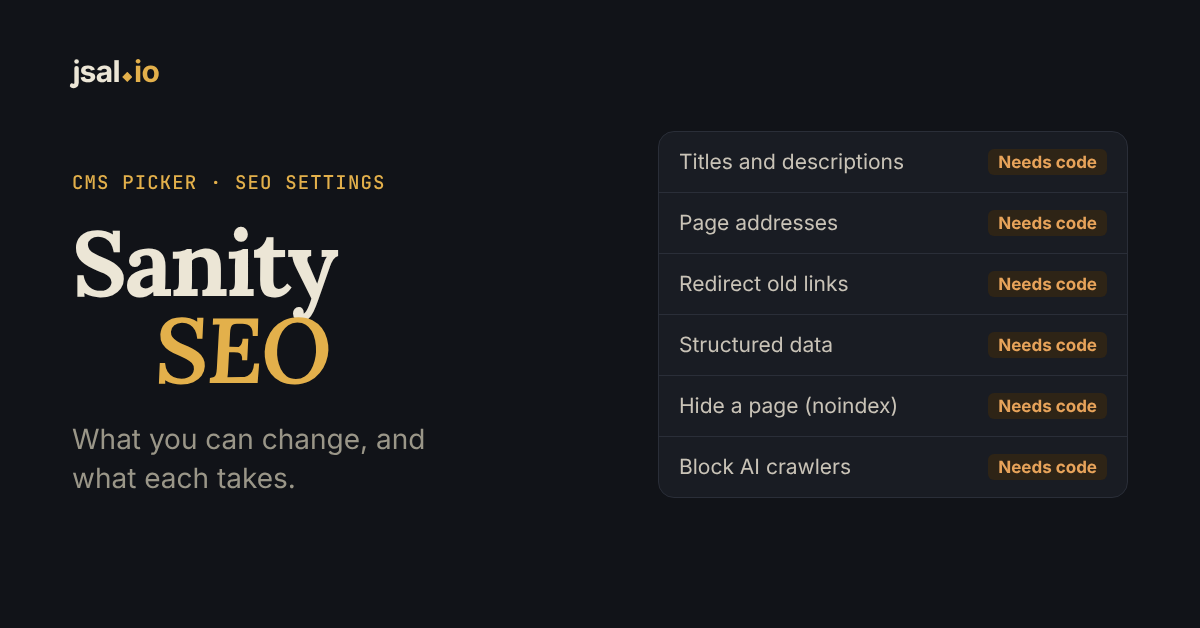
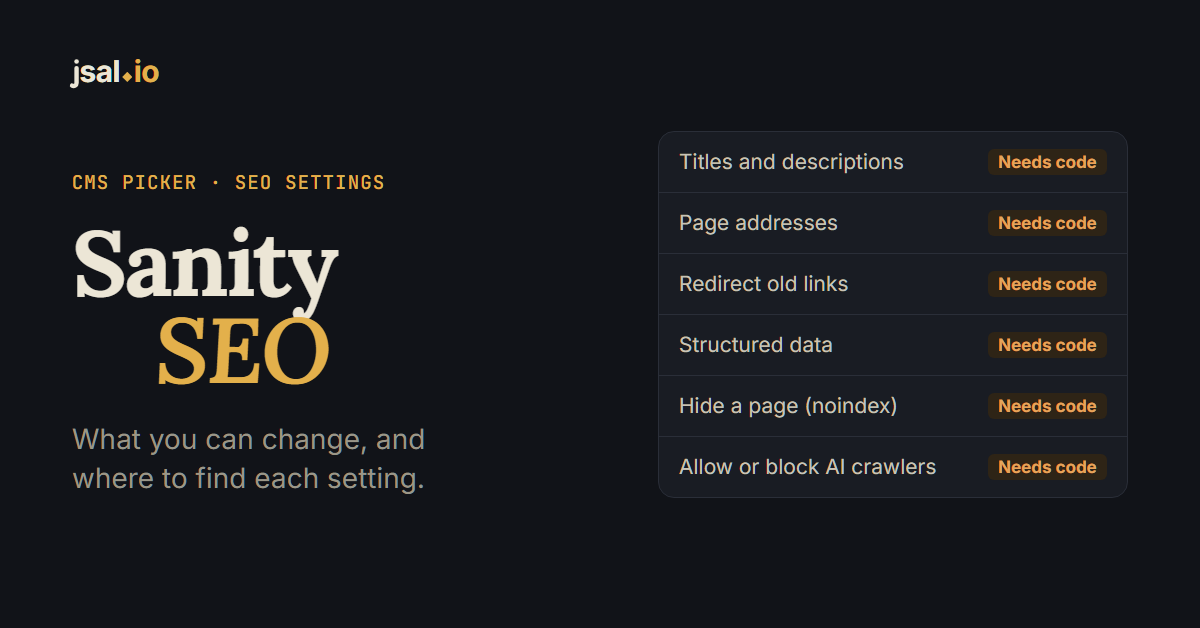
CMS Picker: "Allow or block AI crawlers" on platform pages
The platform pages headed the AI crawlers question "Block AI crawlers", which assumed blocking is the goal, while the comparison asks "Choose which AI bots may read the site". Many businesses want AI search to read them, so the heading now keeps the search phrase without the slant. The 14 platform share images show the same label; the pages themselves follow at the next publish.

diff --git a/site/changelog/index.html b/site/changelog/index.html
@@ -81,7 +81,7 @@ h1 em { font-weight: 600; color: var(--jsal-accent); }
       <li><span class="log-name"><a href="/cms-picker/">CMS Picker</a></span><span>WordPress now counts for local businesses and B2B companies, and agency- or developer-built sites count its managed hosting as handled.</span></li>
       <li data-short="Plain-word results, from your answers"><span class="log-name"><a href="/cms-picker/">CMS Picker</a></span><span>Results explain themselves in plain words: what you said, what decided a close call, and where the comparison table sets two platforms apart.</span></li>
       <li><span class="log-name"><a href="/cms-picker/">CMS Picker</a></span><span>On phones the comparison is a third shorter: one line per answer, and a tap opens its note in place.</span></li>
-      <li><span class="log-name"><a href="/cms-picker/">CMS Picker</a></span><span>Small fixes: “A close call” sits on one line on phones, comparison answers are corrected against each platform’s own docs, first steps name the site you’re moving from, a shared result keeps “In two or more languages”, shop sizes read “up to a few hundred” or “thousands” of products, and starting free says when the free plan can’t use your own domain.</span></li>
+      <li><span class="log-name"><a href="/cms-picker/">CMS Picker</a></span><span>Small fixes: “A close call” sits on one line on phones, comparison answers are corrected against each platform’s own docs, first steps name the site you’re moving from, a shared result keeps “In two or more languages”, shop sizes read “up to a few hundred” or “thousands” of products, starting free says when the free plan can’t use your own domain, and platform pages ask “Allow or block AI crawlers” rather than assuming you want to block them.</span></li>
       <li><span class="log-name">Site</span><span>Each tool has its own icon: beside its name at the top, in the logo menu, on its home page tile and in its tab.</span></li>
       <li><span class="log-name">Site</span><span>On phones, the browser bar matches the page, and Android home screens get the logo.</span></li>
       <li data-short="A logo: the j and its gem"><span class="log-name">Site</span><span>A logo: a j with a gold gem. It signs off every page and unfolds into jsal.io on your first visit.</span></li>

diff --git a/.github/build/og/og.html b/.github/build/og/og.html
@@ -107,7 +107,7 @@ const pages = {
 if (p === 'platform') {
   const q = new URLSearchParams(location.search), name = q.get('name') || '';
   const TAG = { yes: ['ok', 'Built in'], auto: ['ok', 'Automatic'], plugin: ['pl', 'Plugin/app'], code: ['cd', 'Needs code'], no: ['no', 'Not possible'], check: ['pl', 'Unclear'], indirect: ['pl', 'Indirectly'] };
-  const rows = ['Titles and descriptions', 'Page addresses', 'Redirect old links', 'Structured data', 'Hide a page (noindex)', 'Block AI crawlers'];
+  const rows = ['Titles and descriptions', 'Page addresses', 'Redirect old links', 'Structured data', 'Hide a page (noindex)', 'Allow or block AI crawlers'];
   const tags = (q.get('tags') || '').split(',');
   // how=1: no menus to point to (a headless CMS), so it says what each takes instead of where
   pages.platform = { label: 'CMS Picker · SEO settings', title: `${name}<br><em>SEO</em>`, sub: q.get('how') ? 'What you can change, and what each takes.' : 'What you can change, and where to find each setting.',

diff --git a/.github/scripts/playbook.py b/.github/scripts/playbook.py
@@ -440,7 +440,7 @@ BUILT_ROWS = ['blog', 'members', 'store', 'languages', 'forms', 'design']   # th
 # Each SEO row as a heading, worded the way people search for it (the table's label is a "Can you…" question)
 SEO_HEAD = {'meta_title': 'Change the title and description in Google', 'urls': 'Choose page addresses (URLs)',
             'gsc404': 'Redirect old links (301s)', 'schema': 'Add structured data (schema)',
-            'noindex': 'Hide a page from search (noindex)', 'ai_crawlers': 'Block AI crawlers'}
+            'noindex': 'Hide a page from search (noindex)', 'ai_crawlers': 'Allow or block AI crawlers'}
 
 
 # Who each platform page is about, for its structured data: the official site and, where Wikidata has a clear
